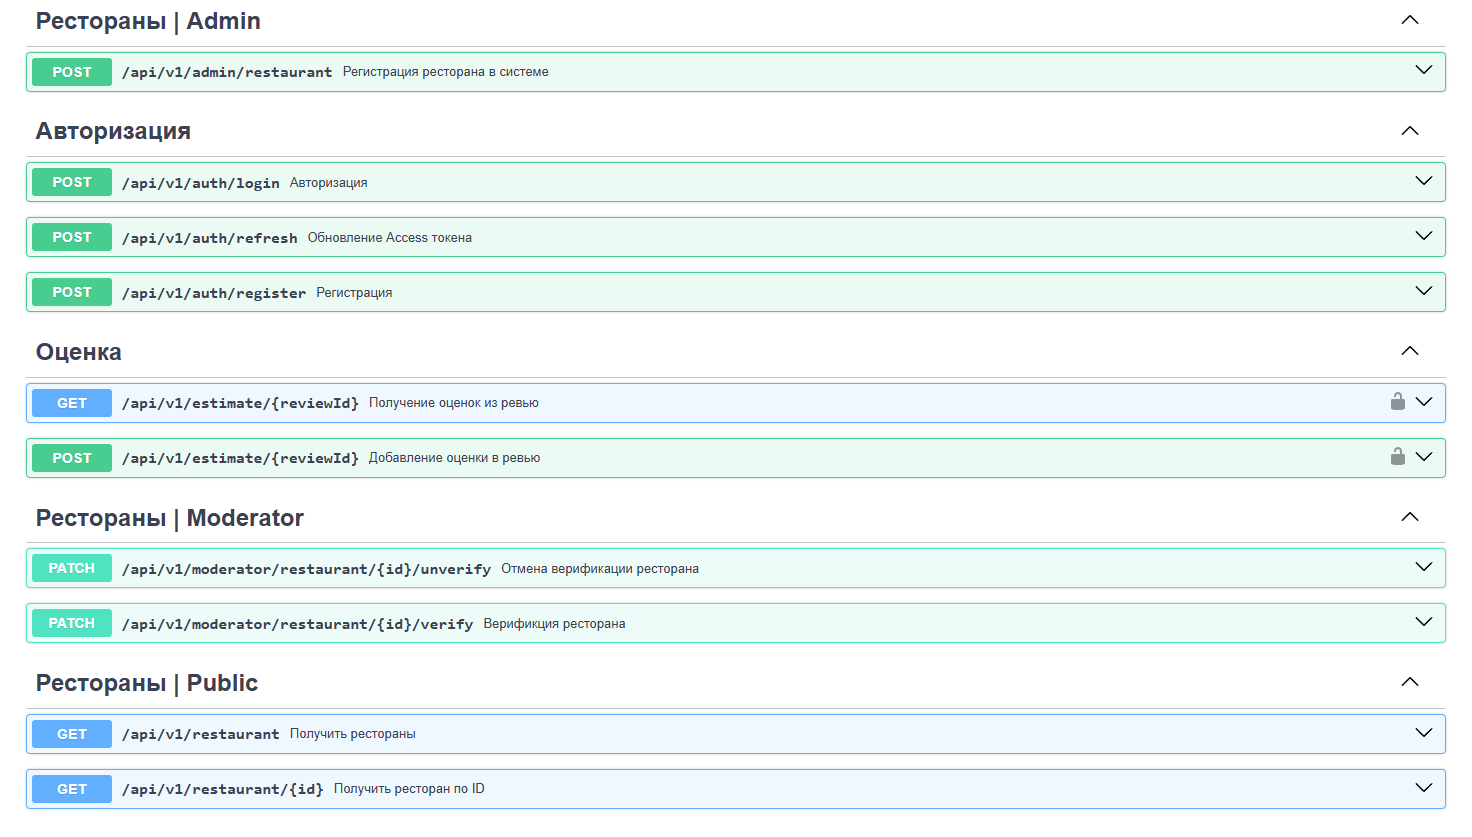
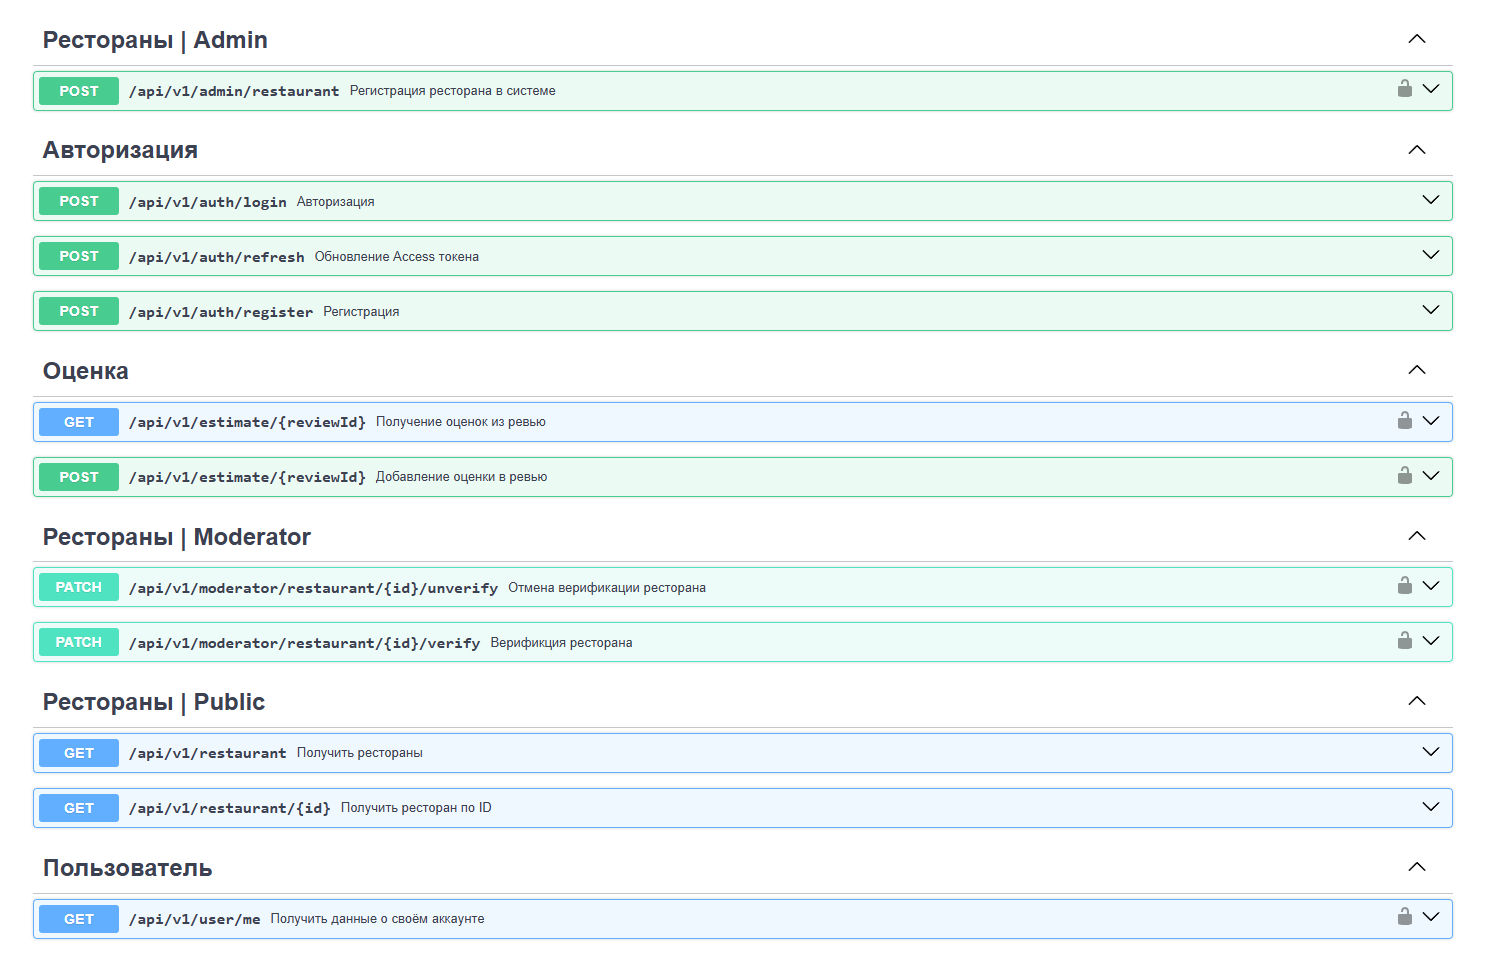
build: minor changes

Changed region(s): [[0.0, 0.0, 1.0, 0.994], [0.9375, 0.3417, 0.9688, 0.3728]]

diff --git a/app/docs/docs.go b/app/docs/docs.go
@@ -17,6 +17,11 @@ const docTemplate = `{
     "paths": {
         "/api/v1/admin/restaurant": {
             "post": {
+                "security": [
+                    {
+                        "ApiKeyAuth": []
+                    }
+                ],
                 "consumes": [
                     "application/json"
                 ],
@@ -267,6 +272,11 @@ const docTemplate = `{
         },
         "/api/v1/moderator/restaurant/{id}/unverify": {
             "patch": {
+                "security": [
+                    {
+                        "ApiKeyAuth": []
+                    }
+                ],
                 "consumes": [
                     "application/json"
                 ],
@@ -304,6 +314,11 @@ const docTemplate = `{
         },
         "/api/v1/moderator/restaurant/{id}/verify": {
             "patch": {
+                "security": [
+                    {
+                        "ApiKeyAuth": []
+                    }
+                ],
                 "consumes": [
                     "application/json"
                 ],
@@ -420,9 +435,59 @@ const docTemplate = `{
                     }
                 }
             }
+        },
+        "/api/v1/user/me": {
+            "get": {
+                "security": [
+                    {
+                        "ApiKeyAuth": []
+                    }
+                ],
+                "consumes": [
+                    "application/json"
+                ],
+                "produces": [
+                    "application/json"
+                ],
+                "tags": [
+                    "Пользователь"
+                ],
+                "summary": "Получить данные о своём аккаунте",
+                "responses": {
+                    "200": {
+                        "description": "OK",
+                        "schema": {
+                            "$ref": "#/definitions/schema.User"
+                        }
+                    },
+                    "400": {
+                        "description": "Bad Request",
+                        "schema": {
+                            "$ref": "#/definitions/helper.ErrorResponse"
+                        }
+                    }
+                }
+            }
         }
     },
     "definitions": {
+        "enum.Role": {
+            "type": "string",
+            "enum": [
+                "critic",
+                "restorer",
+                "moderator",
+                "admin",
+                "helper"
+            ],
+            "x-enum-varnames": [
+                "RoleCritic",
+                "RoleRestorer",
+                "RoleModerator",
+                "RoleAdmin",
+                "RoleHelper"
+            ]
+        },
         "helper.ErrorResponse": {
             "type": "object",
             "properties": {
@@ -507,6 +572,44 @@ const docTemplate = `{
                     "type": "string"
                 },
                 "updatedAt": {
+                    "type": "string"
+                }
+            }
+        },
+        "schema.User": {
+            "type": "object",
+            "properties": {
+                "createdAt": {
+                    "type": "string"
+                },
+                "email": {
+                    "type": "string"
+                },
+                "firstName": {
+                    "type": "string"
+                },
+                "id": {
+                    "type": "string"
+                },
+                "isVerified": {
+                    "type": "boolean"
+                },
+                "lastName": {
+                    "type": "string"
+                },
+                "lastSeen": {
+                    "type": "string"
+                },
+                "role": {
+                    "$ref": "#/definitions/enum.Role"
+                },
+                "updatedAt": {
+                    "type": "string"
+                },
+                "username": {
+                    "type": "string"
+                },
+                "verifiedBy": {
                     "type": "string"
                 }
             }

diff --git a/app/handler/restaurant.go b/app/handler/restaurant.go
@@ -60,6 +60,7 @@ func (rh *RestaurantHandler) GetRestaurantById(c *fiber.Ctx) error {
 
 // @Summary Регистрация ресторана в системе
 // @Tags Рестораны | Admin
+// @Security ApiKeyAuth
 // @Accept json
 // @Produce json
 // @Param data body serializer.CreateRestaurantDTO true "Данные регистрации ресторана"
@@ -86,6 +87,7 @@ func (rh *RestaurantHandler) setVerifyState(c *fiber.Ctx, verifyBool bool) error
 
 // @Summary Верификция ресторана
 // @Tags Рестораны | Moderator
+// @Security ApiKeyAuth
 // @Accept json
 // @Produce json
 // @Param id path string true "ID ресторана"
@@ -98,6 +100,7 @@ func (rh *RestaurantHandler) VerifyRestaurant(c *fiber.Ctx) error {
 
 // @Summary Отмена верификации ресторана
 // @Tags Рестораны | Moderator
+// @Security ApiKeyAuth
 // @Accept json
 // @Produce json
 // @Param id path string true "ID ресторана"

diff --git a/app/handler/user.go b/app/handler/user.go
@@ -19,6 +19,14 @@ func NewUserHandler(service *service.UserService) *UserHandler {
 	}
 }
 
+// @Summary Получить данные о своём аккаунте
+// @Tags Пользователь
+// @Security ApiKeyAuth
+// @Accept json
+// @Produce json
+// @Success 200 {object} schema.User
+// @Failure 400 {object} helper.ErrorResponse
+// @Router /api/v1/user/me [get]
 func (h *UserHandler) GetMeHandler(c *fiber.Ctx) error {
 	_, parsedId, err := serializer.GetJwtUserLocalWithParsedID(c)
 	if err != nil {
